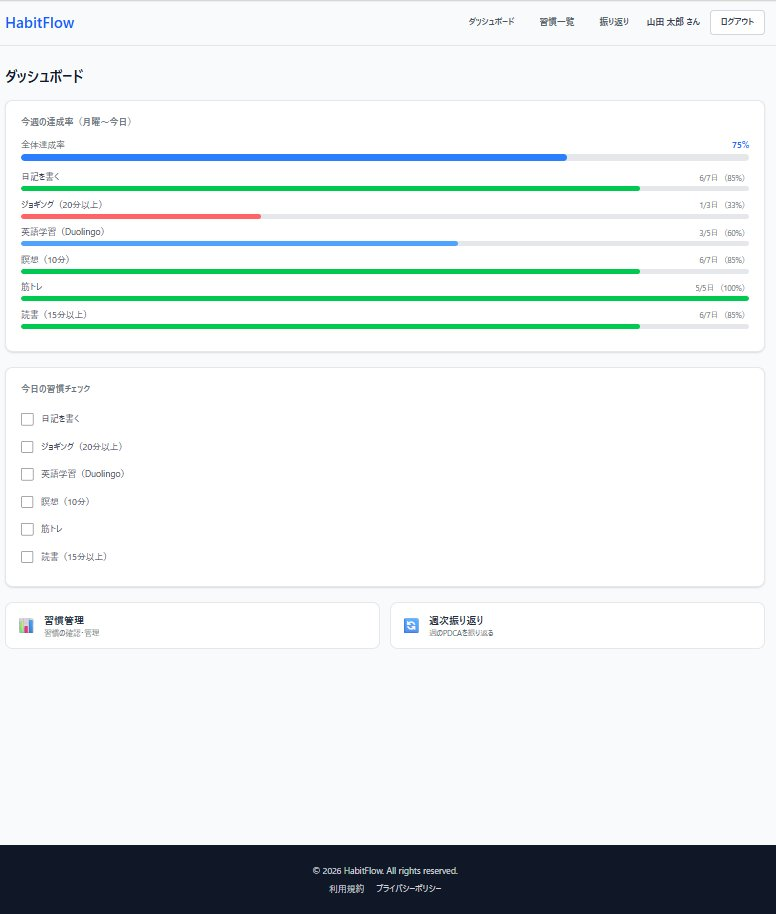
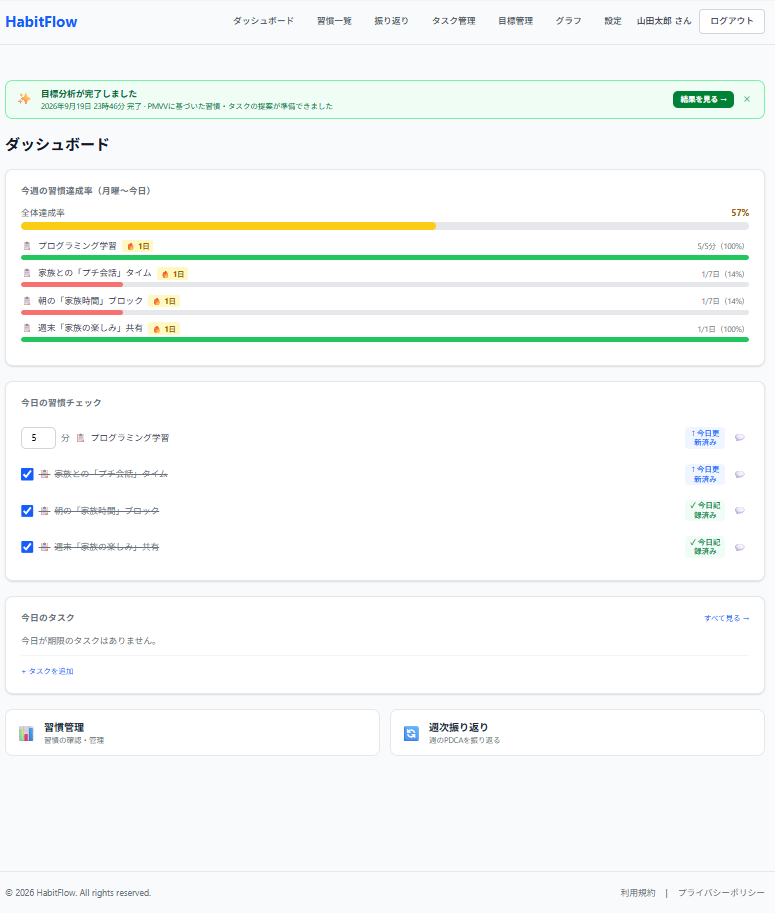
fix(ai): Groq 廃止モデルを openai/gpt-oss-120b に更新・GROQ_MODEL を ENV 化

diff --git a/app/services/ai_client.rb b/app/services/ai_client.rb
@@ -67,7 +67,20 @@ class AiClient
   GEMINI_API_BASE = "https://generativelanguage.googleapis.com".freeze
 
   # GROQ_MODEL: フォールバック時に使用する Groq のモデル名
-  GROQ_MODEL = "llama-3.3-70b-versatile".freeze
+  #
+  # 【2026-08 修正】Groq が旧モデル "llama-3.3-70b-versatile" を
+  #   2026年8月16日に廃止（decommission）した。呼び出すと HTTP 404
+  #   （model_not_found）が返り、Gemini フォールバック時に分析が失敗していた。
+  #   Groq 公式の推奨後継 "openai/gpt-oss-120b" を既定値にする。
+  #   （console.groq.com/docs/deprecations の移行表に基づく）
+  #
+  # 【ENV.fetch にした理由】
+  #   Groq はモデルを定期的に入れ替える。モデル名をコードに直書きすると
+  #   廃止のたびにコード修正＋再デプロイが必要になる。
+  #   環境変数 GROQ_MODEL で上書きできるようにしておけば、
+  #   次に廃止されても Render の環境変数を変えるだけで対応できる（再発防止）。
+  #   環境変数が無ければ下の既定値（現時点で有効なモデル）を使う。
+  GROQ_MODEL = ENV.fetch("GROQ_MODEL", "openai/gpt-oss-120b").freeze
 
   # GROQ_API_BASE: Groq API のベース URL
   GROQ_API_BASE = "https://api.groq.com".freeze

diff --git a/README.md b/README.md
@@ -97,7 +97,7 @@ flowchart LR
 [![G-3 通知設定ページ](https://img.shields.io/badge/G--3_通知設定ページ-完了-10b981?style=flat-square)](https://github.com/KK-arina/HabitFlow/tree/feature/g3-notification-settings)
 [![G-4 お休みモード設定](https://img.shields.io/badge/G--4_お休みモード設定-完了-10b981?style=flat-square)](https://github.com/KK-arina/HabitFlow/tree/feature/g4-rest-mode)
 [![G-5 CSVエクスポート](https://img.shields.io/badge/G--5_CSVエクスポート-完了-10b981?style=flat-square)](https://github.com/KK-arina/HabitFlow/tree/feature/G-5-csv-export)
-[![G-6 設定ページ拡張](https://img.shields.io/badge/G--6_設定ページ拡張-完了-10b981?style=flat-square)](https://github.com/KK-arina/runteq_graduation_project/tree/feature/g6-settings-page-expansion)
+[![G-6 設定ページ拡張](https://img.shields.io/badge/G--6_設定ページ拡張-完了-10b981?style=flat-square)](https://github.com/KK-arina/HabitFlow/tree/feature/g6-settings-page-expansion)
 [![G-7 ダッシュボードバナー通知](https://img.shields.io/badge/G--7_ダッシュボードバナー通知-完了-10b981?style=flat-square)](https://github.com/KK-arina/HabitFlow/tree/feature/g7-dashboard-completion-banner)
 [![G-8 AI分析カウント月次リセット](https://img.shields.io/badge/G--8_AI分析カウント月次リセット-完了-10b981?style=flat-square)](https://github.com/KK-arina/HabitFlow/tree/feature/G-8-monthly-ai-count-reset-test)
 [![G-9 週次振り返りAI提案拡張](https://img.shields.io/badge/G--9_週次振り返りAI提案拡張-完了-10b981?style=flat-square)](https://github.com/KK-arina/HabitFlow/tree/feature/g-9-weekly-reflection-ai-proposal-extension)
@@ -117,7 +117,8 @@ flowchart LR
 [![I-2 セキュリティ最終確認](https://img.shields.io/badge/I--2_セキュリティ最終確認-完了-10b981?style=flat-square)](https://github.com/KK-arina/HabitFlow/tree/feature/i-2-security-final-check)
 [![Rails 8.1・Ruby 3.4.10 最新化](https://img.shields.io/badge/Rails_8.1_%2F_Ruby_3.4.10-最新化・Dependabot導入-10b981?style=flat-square)](https://github.com/KK-arina/HabitFlow/tree/feature/i-2-security-final-check)
 [![I-3 本番動作確認](https://img.shields.io/badge/I--3_本番動作確認-完了-10b981?style=flat-square)](https://github.com/KK-arina/HabitFlow/tree/feature/i-3-production-check)
-[![本リリース進捗](https://img.shields.io/badge/本リリース進捗-70%2F70_ISSUE-f59e0b?style=flat-square)]()
+[![I-4 README・ドキュメント最終更新](https://img.shields.io/badge/I--4_READMEドキュメント最終更新-完了-10b981?style=flat-square)](https://github.com/KK-arina/HabitFlow/tree/feature/i-4-readme-docs-final-update)
+[![本リリース進捗](https://img.shields.io/badge/本リリース進捗-70%2F70_ISSUE完了-10b981?style=flat-square)]()
 
 <br>
 
@@ -173,7 +174,7 @@ flowchart LR
 | Week F | 認証拡張 | #F-1〜#F-6 | 21 | ✅ 完了 |
 | Week G | 通知・設定拡張 | #G-1〜#G-9 | 34 | ✅ 完了 |
 | Week H | フロントエンド強化 | #H-1〜#H-10 | 37 | ✅ 完了 |
-| Week I | 品質・テスト・デプロイ | #I-1〜#I-6 | 22 | 🟡 進行中（#I-1・#I-2・#I-3・#I-5・#I-6 完了 / #I-4 進行中） |
+| Week I | 品質・テスト・デプロイ | #I-1〜#I-6 | 22 | ✅ 完了 |
 | **合計** | | **70** | **233** | |
 
 <br>
@@ -251,6 +252,7 @@ flowchart LR
 | #I-5 | エラー監視・本番ログ基盤構築（Sentry） | 2026-07-21 | feature/i-5-sentry |
 | #I-2 | セキュリティ最終確認（Brakeman 0件 / 認可 / Strong Parameters / OmniAuth CSRF / CSV署名トークン / ai_context） | 2026-07-26 | feature/i-2-security-final-check |
 | #I-3 | 本番動作確認（Render 本番の最終スモーク：本番設定/ENV 監査・Sentry 本番エラー修正・ストリークの cron 非依存化・CSP(blob/LINE)・/up ヘルスチェック・Lighthouse 対応・gem 脆弱性一括更新） | 2026-08-30 | feature/i-3-production-check |
+| #I-4 | README・ドキュメント最終更新（本リリース機能反映・技術スタック実バージョン化・既知の制限事項の刷新・スクリーンショット更新・.env.example の DB_* 参照追記） | 2026-09-05 | feature/i-4-readme-docs-final-update |
 
 <br>
 
@@ -11382,21 +11384,21 @@ CI/手元で定期実行し、`No vulnerabilities found` を保つ（Dependabot 
 | 技術 | バージョン | 用途 |
 |:---|:---|:---|
 | Ruby | 3.4.10 | プログラミング言語（3.4 系最新パッチ・zlib CVE 対応） |
-| Ruby on Rails | 8.1.3 | Web フレームワーク（7.2.3 からアップグレード） |
+| Ruby on Rails | 8.1.3.1 | Web フレームワーク（7.2.3 からアップグレード・#I-3 でパッチ更新） |
 | PostgreSQL | 16 | データベース |
 | bcrypt | 3.1.7 系 | パスワードハッシュ化 |
-| Puma | 7.1.0（~> 7.0） | Web サーバー |
+| Puma | 7.2.1 | Web サーバー（#I-3 で 7.0 系 → 7.2.1 に更新） |
 
 <br>
 
-### 本リリース追加予定スタック
+### 本リリース追加スタック（すべて導入済み）
 
 <br>
 
 | 技術 | 用途 | ISSUE | 状態 |
 |:---|:---|:---|:---:|
 | Neon Serverless Postgres | 永続無料 DB（Render 内蔵 DB の90日削除回避） | #A-2 | ✅ 完了 |
-| GoodJob 4.x | バックグラウンドジョブ（AI分析・通知・ストリーク計算） | #A-3 | ✅ 完了 |
+| GoodJob 4.19.2 | バックグラウンドジョブ（AI分析・通知・ストリーク計算・:async モードで Web プロセス内実行） | #A-3 | ✅ 完了 |
 | Resend | メール送信（パスワードリセット・週次レポート） | #A-4 #G-2 | ✅ 完了 |
 | letter_opener_web | 開発環境メールプレビュー（Docker対応） | #A-4 #F-4 | ✅ 完了 |
 | habit_templates マスタデータ | オンボーディング用習慣テンプレート（18件） | #A-5 | ✅ 完了 |
@@ -11408,7 +11410,8 @@ CI/手元で定期実行し、`No vulnerabilities found` を保つ（Dependabot 
 | Gemini API（gemini-2.5-flash） | AI分析デフォルトプロバイダ（PMVV・週次振り返り） | #D-2 / #D-4 | ✅ 完了（#D-2）|
 | Groq API（llama-3.3-70b-versatile） | AI分析フォールバックプロバイダ | #D-2 / #D-4 | ✅ 完了（#D-2）|
 | Solid Cache 1.0.10 | Redis不要のキャッシュ（ダッシュボード/グラフ/AI分析結果・単一DB構成） | #I-6 | ✅ 完了 |
-| Sentry | エラー監視・本番ログ基盤（Rails/AI/GoodJob/JS） | #I-5 ✅ |
+| Solid Cable 3.0.12 | Redis不要の Action Cable アダプタ（DB ベース・cable.yml で primary と同一 DB を使用） | #I-6 | ✅ 完了 |
+| Sentry（sentry-ruby / sentry-rails 6.6.2） | エラー監視・本番ログ基盤（Rails / AI / GoodJob / JS の例外を捕捉） | #I-5 | ✅ 完了 |
 | acts_as_list | 習慣の並び替え | #B-6 | ✅ 完了 |
 | Chart.js v4（UMDビルド） | グラフ可視化（折れ線・棒グラフ） | #H-4 | ✅ 完了 |
 | bundler-audit | gem の既知脆弱性スキャン（`bundle exec bundle-audit`） | #I-3 | ✅ 完了 |
@@ -11807,24 +11810,28 @@ PDCAロックが解除される → 来週も習慣を追加・管理できる
 
 <br>
 
-### MVP 未実装機能
+### 本リリースで実装した主要機能（MVP からの拡張）
 
 <br>
 
-以下の機能は設計済みですが、MVP 段階では実装していません。
+MVP 段階で「未実装」としていた機能は、本リリースですべて実装完了しました。
 
 <br>
 
-| 機能 | 状態 | 予定 |
+| 機能 | 状態 | 対応 ISSUE |
 |:---|:---|:---|
-| タスク管理（基本CRUD） | ✅ 実装済み（#C-1） | — |
-| AI 分析連携（自動パース） | 未実装 | 本リリースで追加予定 |
-| パスワードリセット | 未実装 | 本リリースで追加予定 |
-| オンボーディング（初回ガイド） | 未実装 | 本リリースで追加予定 |
-| グラフ・チャート表示 | 未実装 | 本リリースで追加予定 |
-| 数値型習慣（冊数・時間・km等） | ✅ 実装済み（#B-1） | — |
-| 除外日設定（習慣ごとに実施しない曜日を設定） | ✅ 実装済み（#B-2） | — |
-| 習慣のアーカイブ | ✅ 実装済み（#B-4） | — |
+| タスク管理（Must/Should/Could・基本CRUD） | ✅ 実装済み | #C-1〜#C-7 |
+| AI 分析連携（PMVV・週次振り返りの自動分析） | ✅ 実装済み | #D-2 / #D-4 |
+| パスワードリセット（Resend メール送信） | ✅ 実装済み | #F-4 |
+| オンボーディング（初回ガイド・習慣テンプレート選択・PMVV入力） | ✅ 実装済み | #D-7 / #H-5 |
+| グラフ・チャート表示（Chart.js 進捗分析） | ✅ 実装済み | #H-4 |
+| 数値型習慣（冊数・時間・km等） | ✅ 実装済み | #B-1 |
+| 除外日設定（習慣ごとに実施しない曜日を設定） | ✅ 実装済み | #B-2 |
+| 習慣のアーカイブ・ストリーク・カラー/アイコン並び替え | ✅ 実装済み | #B-3 / #B-4 / #B-6 |
+| ソーシャルログイン（Google / LINE） | ✅ 実装済み | #F-1 / #F-2 |
+| LINE / メール通知・週次レポート | ✅ 実装済み | #G-1 / #G-2 |
+| CSV エクスポート | ✅ 実装済み | #G-5 |
+| 危機介入（セーフティ）機能 | ✅ 実装済み | #D-5 |
 
 <br>
 
@@ -11838,7 +11845,7 @@ PDCAロックが解除される → 来週も習慣を追加・管理できる
 | Neon 無料プランの制限 | コンピュートリソースに上限あり（通常の用途では十分） | ユーザー増加時は有料プランへ移行 |
 | 自動バックアップなし | Neon 無料プランには自動バックアップがない | 本番移行時は有料プランへ移行する |
 | GoodJob Worker 非対応 | Render Free プランは Background Worker が利用不可（最低$7/月） | :async モードでWebプロセス内でジョブを実行（#A-4で対応済み） |
-| メール送信 | Resend によるメール送信基盤を構築済み（#A-4完了） | パスワードリセット等は #F-4 で実装予定 |
+| メール送信 | Resend によるメール送信基盤を構築済み（#A-4完了） | パスワードリセット（#F-4）・週次レポート（#G-2）・タスクアラーム（#C-5）で実装済み |
 
 <br>
 
@@ -12239,7 +12246,7 @@ docker compose exec web bin/rails test
 <br>
 
 ```
-861 runs, 2290 assertions, 0 failures, 0 errors, 0 skips
+867 runs, 2303 assertions, 0 failures, 0 errors, 0 skips
 
 ```
 
@@ -12394,7 +12401,40 @@ docker compose exec web bin/rails tailwindcss:build
 # Sprockets キャッシュをクリアする（Permission denied エラーの場合）
 sudo rm -rf tmp/cache/assets
 
-# テスト用 DB を最新状態に更新する
+# --- テスト用データベースを最新の状態に更新する（正しい手順） ---
+#
+# 【なぜ①が必要か】
+# development DB の「環境ラベル」が test 等にずれていると、
+# マイグレーションやテスト準備で ActiveRecord::EnvironmentMismatchError が出る。
+# 先に環境ラベルを development に固定しておくと、この警告を防げる。
+docker compose exec web bin/rails db:environment:set RAILS_ENV=development
+
+# 【なぜ②が必要か】
+# config/database.yml で development / test の接続先 DB を分離済み（#I-3）。
+# そのため db:test:prepare を実行しても開発 DB（habitflow_development）は消えず、
+# テスト DB（habitflow_test）だけが最新スキーマにリセットされる。
+docker compose exec web bin/rails db:test:prepare
+```
+
+<br>
+
+### ActiveRecord::EnvironmentMismatchError が出る
+
+<br>
+
+```bash
+# 【症状】
+# db:migrate や db:test:prepare 実行時に
+#   ActiveRecord::EnvironmentMismatchError:
+#   You are attempting to modify a database that was last run in `test` environment...
+# のような警告が出て処理が止まる。
+
+# 【原因】
+# development DB に記録されている「最後に使った環境ラベル」が
+# development 以外（test 等）になっているため。
+
+# 【対処】development に戻してから、テスト DB を作り直す。
+docker compose exec web bin/rails db:environment:set RAILS_ENV=development
 docker compose exec web bin/rails db:test:prepare
 ```
 
@@ -12427,6 +12467,7 @@ docker compose exec web bin/rails db:test:prepare
 | [`docs/architecture.md`](docs/architecture.md) | **設計・技術実装ノート**: サービス設計・ER図・技術選定の理由・実装詳細 |
 | [`docs/development.md`](docs/development.md) | **開発進捗ログ**: Week別SP管理・Issue完了記録・テスト推移・教訓まとめ |
 | [`docs/operations.md`](docs/operations.md) | **運用・デプロイ記録**: 本番環境設定・確認チェックリスト・トラブルシューティング |
+| [`docs/logging_and_backup.md`](docs/logging_and_backup.md) | **ログ確認・バックアップ手順**: 本番ログの見方・バックアップ運用 |
 
 <br>
 
